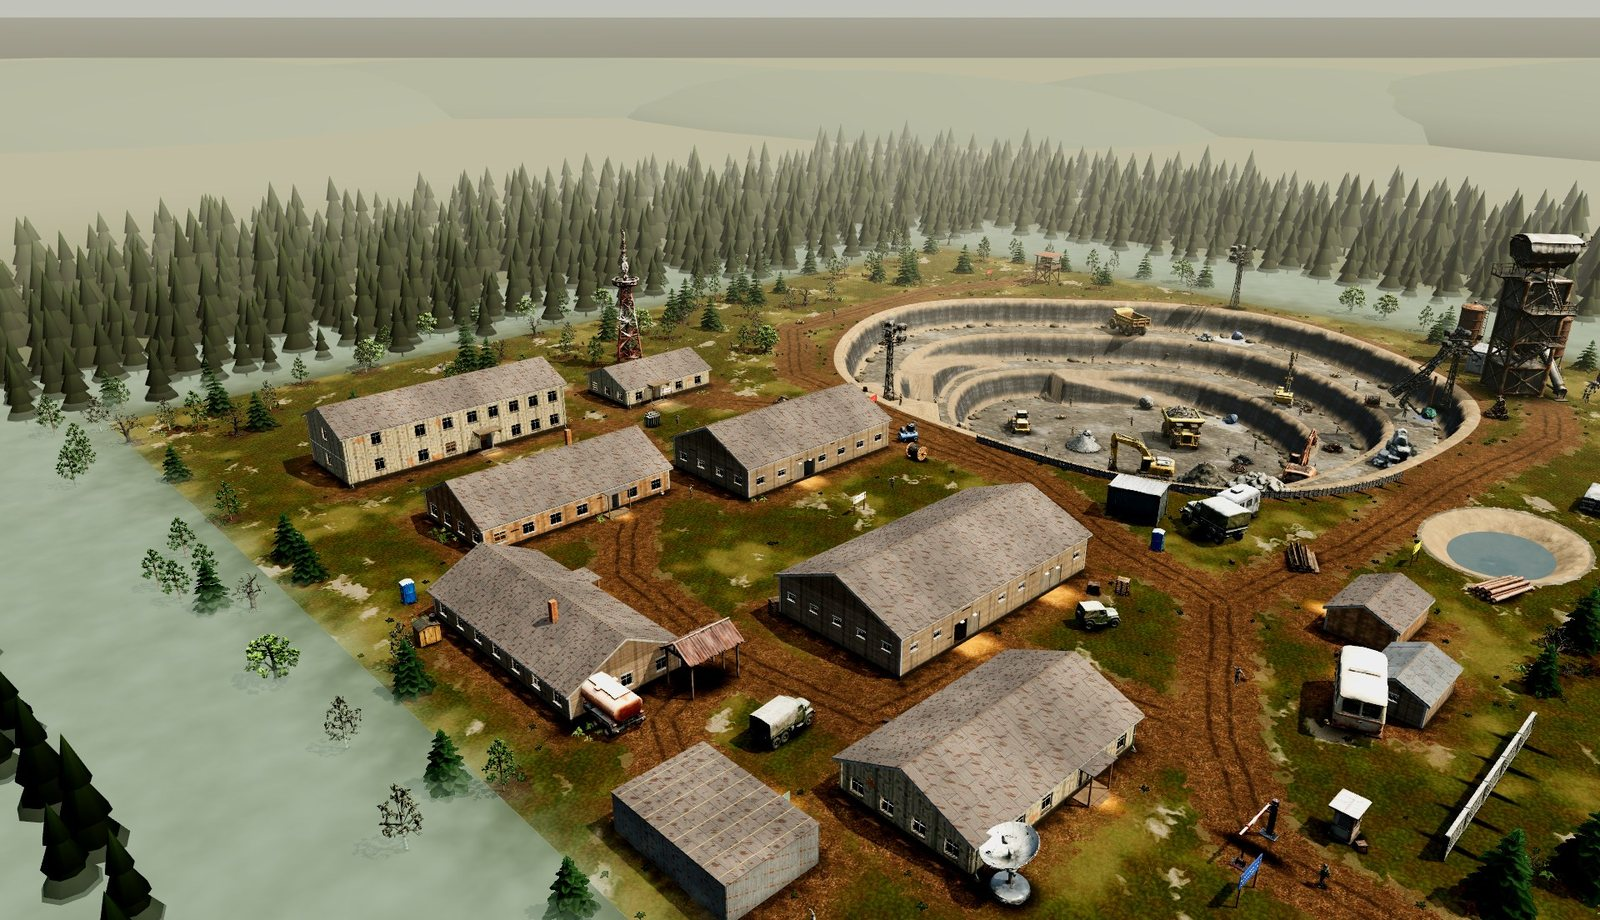
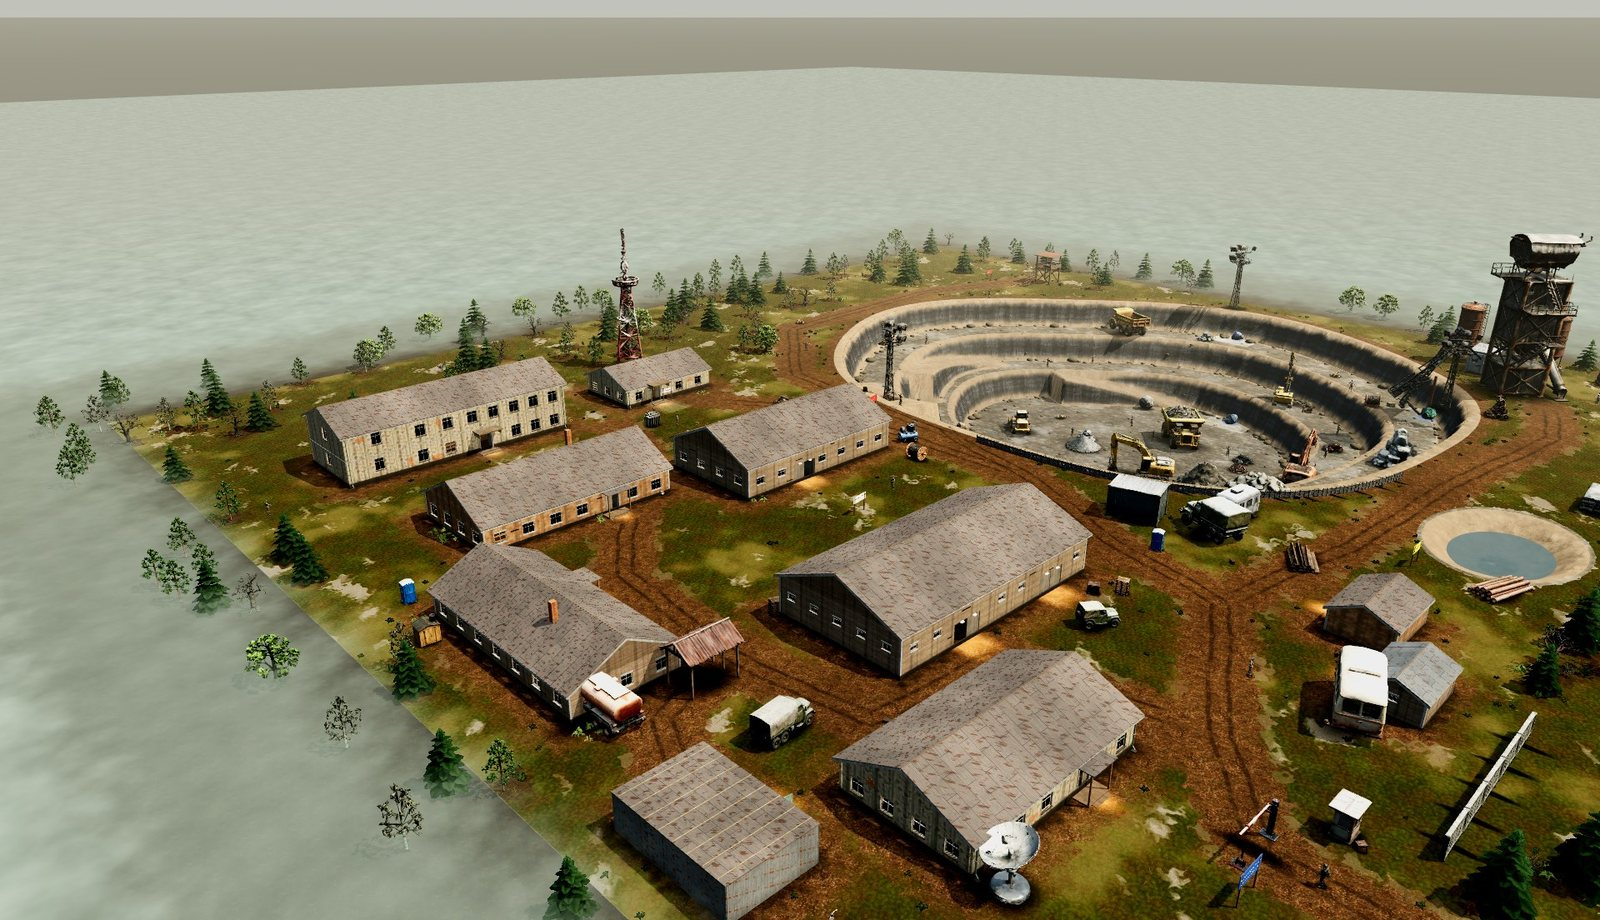
Карьер: без леса и холмов на заднем плане — за краем поля только туман границы кластера
- убраны ельник, холмы и тёмная земля за краем поля (_q_outskirts);
- рамка тумана у карьера идёт далеко за край и в 10–40 м от него становится
  сплошной: за ней ничего не видно;
- обновлены обзорные снимки и описание.

Проверено: qr — ошибок 0. На телефоне не проверялось.

Claude-Session: https://claude.ai/code/session_012mFYCmtNnDBPzGE6DVCLqL

diff --git a/stand/docs/QUARRY.md b/stand/docs/QUARRY.md
@@ -43,16 +43,16 @@
 остальное — стандартные; текстуры ужаты (крупное — 2048/1024, мелочь — 1024/512, предметы — 512/256).
 
 ## Вид по видео-образцу (в работе)
-Локация приводится к виду присланного пролёта над карьером (второй вариант видео: посёлок в ельнике, серые
+Локация приводится к виду присланного пролёта над карьером (второй вариант видео: посёлок, серые
 кровли, грунтовые дороги, тёмная слоистая порода). Сделано:
 - кровля посёлка — листы профнастила (`q_rust`, `q_tin`; в шейдере построек — режим `sheet`): волна идёт вдоль
   ската, у каждого листа 1,05 × 2,4 м свой тон, по нахлёстам тёмные линии, ржавчина бурая; у общежития, медпункта
   и конторы — двускатные крыши со свесом. Прежняя текстура сплошной ржавчины вблизи выглядела размытыми полосами;
 - земля: грунтовые дороги и дворы у построек вместо сплошной утоптанной площадки, между ними трава;
 - борта выработки: тёмная холодная порода с вертикальными трещинами и швами пластов, охристая кромка уступов;
-- за краем поля — ельник (2574 ели по 32 треугольника, участками 100 × 100 м, свет по вершинам, без теней и
-  столкновений; ближе 22 м к краю поля их нет — крона закрыла бы камеру), тёмная земля до горизонта и пологие
-  холмы в дымке: карта больше не «висит в пустоте» (`_q_outskirts`);
+- за краем поля — только туман границы кластера: рамка тумана идёт далеко за край и в 10–40 м от него
+  становится сплошной, за ней ничего не видно (`_edge_fog`, параметр `solid` — только у карьера). Леса и холмов
+  на заднем плане нет (были добавлены и убраны по решению автора игры);
 - у наружных дверей — тёплое пятно света на земле и лампа над входом, у минеральных жил — голубой отсвет
   (`_q_glows`: один MultiMesh с прибавляющим смешением, настоящих источников света нет);
 - солнце теплее, дымка светлее.
